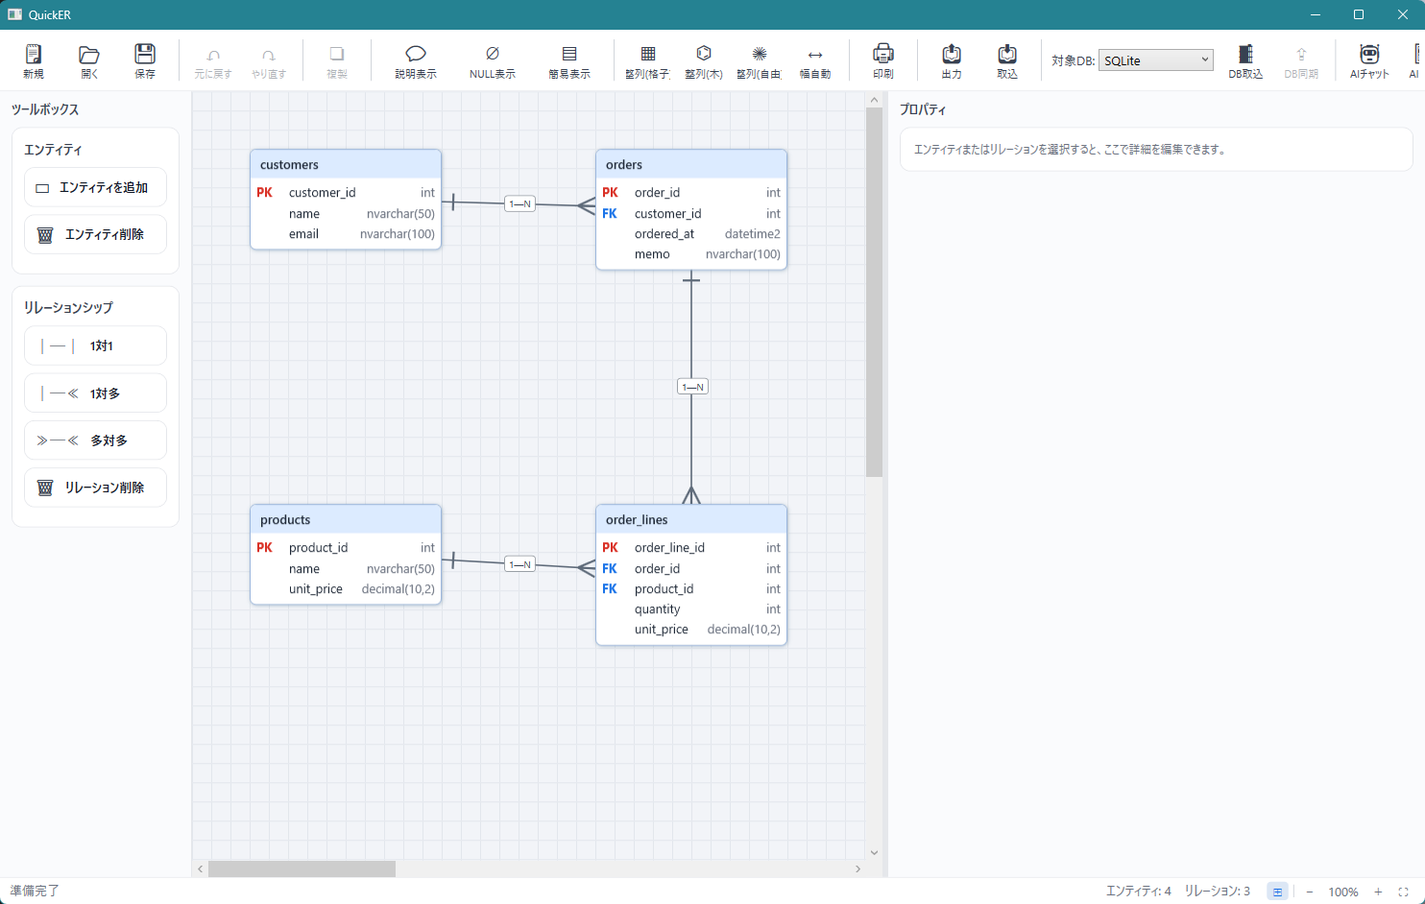
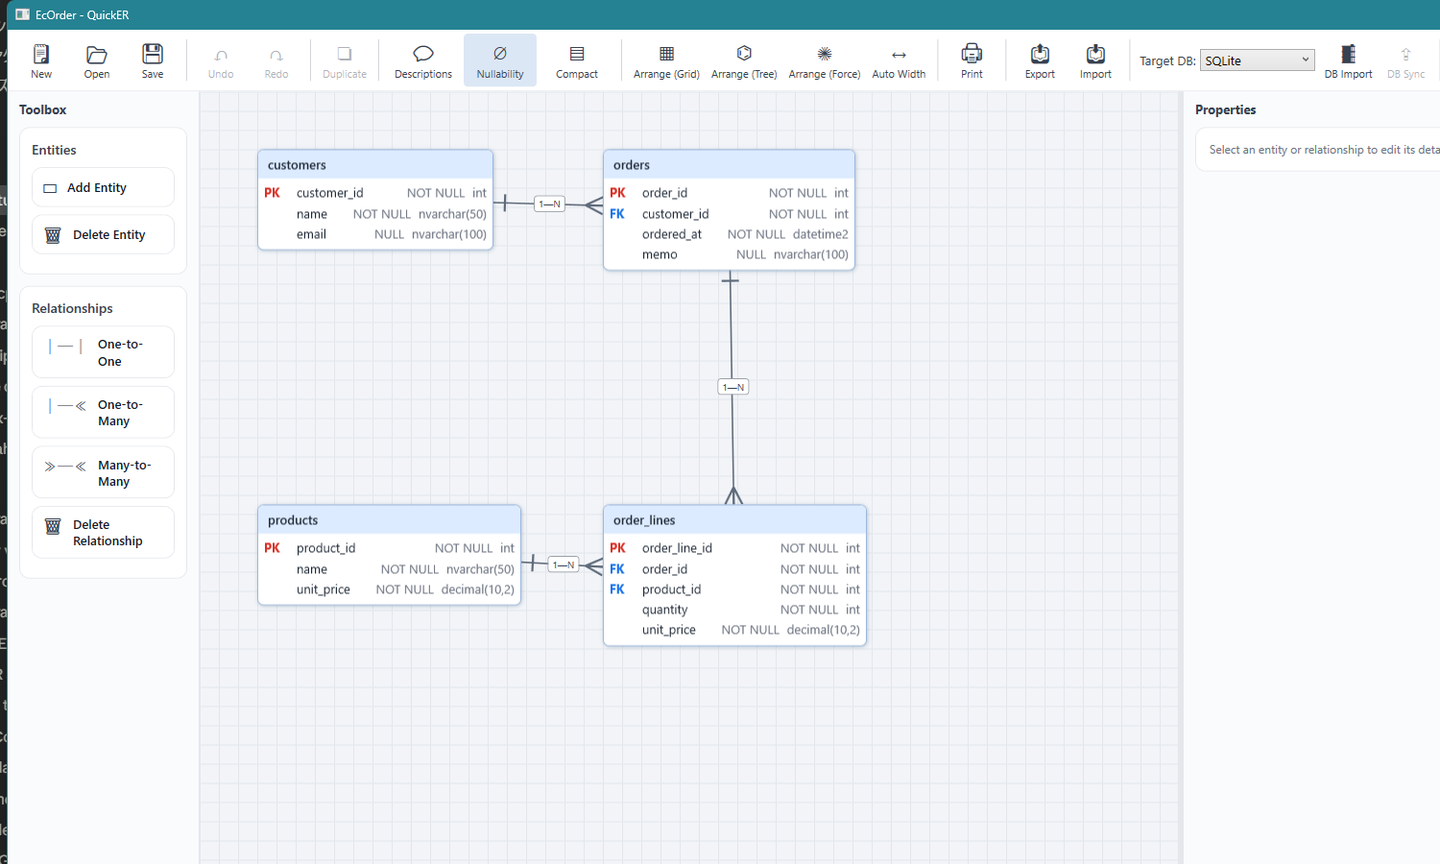
ドキュメントの日英体系を統一（CHANGELOG/CONTRIBUTING/SECURITY の英語化とスクリーンショットの命名整理）
- CHANGELOG / CONTRIBUTING / SECURITY を README と同じ規則へ分割:
  基底名 .md＝英語（GitHub 自動認識側）・.ja.md＝日本語（git mv で履歴保持）。冒頭に相互リンク
- 「CHANGELOG は日英両方更新」ルールを CONTRIBUTING（開発規約・リリース手順）と
  PR テンプレートのチェックリストに明文化（乖離防止）
- CONTRIBUTING のリリース手順の陳腐化を是正（GUI zip → Velopack 配布物・日英とも）
- スクリーンショットも同じ命名規則へ: sample-ec-order.png＝英語 UI・sample-ec-order.ja.png＝日本語 UI
  （実画像の取り違えなしを目視検証済み）。README×2・slnx の参照を更新
- 相互リンク 6 種の解決・slnx パースを検証済み

diff --git a/CONTRIBUTING.md b/CONTRIBUTING.md
@@ -1,61 +1,63 @@
-# QuickER への貢献ガイド
+# Contributing to QuickER
 
-QuickER は個人開発の OSS です。Issue・Pull Request を歓迎しますが、対応は**ベストエフォート**（対応期限の約束なし）で、**サポート対象は最新版のみ**です。
+*[日本語](CONTRIBUTING.ja.md) | English*
 
-## Issue（バグ報告・機能要望）
+QuickER is a solo-developed OSS project. Issues and pull requests are welcome, but support is **best-effort** (no promised response times) and covers **the latest version only**.
 
-- テンプレート（バグ報告・機能要望）を使ってください。テンプレートに合わない相談・質問は空 Issue で構いません
-- 日本語・英語どちらでも歓迎します（Issues in English are welcome）
-- バグ報告では環境情報（バージョン・入手方法・OS・.NET Runtime）と再現手順が調査の前提になります
-- **脆弱性の報告は公開 Issue に書かないでください**。[SECURITY.md](SECURITY.md) の手順で非公開に報告してください
+## Issues (bug reports / feature requests)
 
-## Pull Request
+- Please use the issue templates (bug report / feature request). For questions or discussions that don't fit the templates, a blank issue is fine
+- Japanese and English are both welcome
+- For bug reports, environment information (version, how you installed it, OS, .NET runtime) and reproduction steps are prerequisites for investigation
+- **Do not report vulnerabilities in public Issues.** Follow the private reporting procedure in [SECURITY.md](SECURITY.md)
 
-- **PR を作る前に、まず Issue で方針を相談してください**（事前相談制）。typo 修正などの小さな修正は相談不要です
-- 事前相談のない大きな PR は、方針に合わない場合クローズすることがあります
+## Pull requests
 
-### 開発規約の要点
+- **Before opening a PR, please discuss your plan in an Issue first** (discussion-first policy). Small fixes such as typo corrections don't need prior discussion
+- Large PRs without prior discussion may be closed if they don't fit the project direction
 
-- 開発環境は Windows ＋ .NET 10 SDK（テストが WPF 依存のため）。Docker があれば実 DB 統合テストも実行されます（無ければ自動スキップ）
-- コメント・コミットメッセージは日本語で書きます
-- コード修正後は `csharpier format .` を実行してください（グローバルツール）
-- `dotnet test QuickER.slnx` が緑であることを確認してください
-- 生成テンプレート（`Templates/CSharpRuntime.scriban`）を変更した場合は、固定フィクスチャ等の再生成が必要です。再生成 → 検証 → 差分表示までを次のスクリプトが行います:
+### Development conventions
+
+- Development environment: Windows + .NET 10 SDK (the tests depend on WPF). With Docker running, the real-DB integration tests also run (they are skipped automatically otherwise)
+- Comments and commit messages are written in Japanese
+- Run `csharpier format .` after code changes (global tool)
+- Make sure `dotnet test QuickER.slnx` is green
+- If you change the generation templates (`Templates/CSharpRuntime.scriban`), the checked-in fixtures etc. must be regenerated. The following script performs regenerate → verify → show diff:
 
   ```powershell
   ./scripts/regen-fixtures.ps1
   ```
 
-  スクリプトを使わない場合は、次の 1 コマンドで再生成し、そのあと環境変数なしで同じテストを流して緑を確認してください:
+  Without the script, regenerate with the following one-liner, then run the same tests again without the environment variable and confirm they are green:
 
   ```powershell
   $env:QUICKER_REGEN_FIXTURES=1; dotnet test tests/QuickER.Tests/QuickER.Tests.csproj --filter "FullyQualifiedName~Drift"; $env:QUICKER_REGEN_FIXTURES=$null
   ```
 
-- 利用者に影響する変更は [CHANGELOG.md](CHANGELOG.md) の Unreleased 欄へ 1 行追記してください（内部リファクタリング・テストのみの変更は不要）
+- For changes that affect users, add a one-line entry to the Unreleased section of the changelog — **both** [CHANGELOG.md](CHANGELOG.md) (English) and [CHANGELOG.ja.md](CHANGELOG.ja.md) (Japanese). Not needed for internal refactoring or test-only changes
 
-アーキテクチャと「壊すと静かに回帰する不変条件」は [CLAUDE.md](CLAUDE.md) にまとまっています。
+The architecture and the invariants that break silently (not caught by the build or the type checker) are documented in [CLAUDE.md](CLAUDE.md).
 
-## ライセンスと貢献時の権利処理
+## License and rights handling for contributions
 
-- 本リポジトリはプロジェクトごとに **MIT** と **PolyForm Noncommercial 1.0.0** を使い分けています（対象一覧は [LICENSE-NC.md](LICENSE-NC.md)、提供方針は README の「ライセンス」節を参照）
-- 提出されたコードは、**取り込み先プロジェクトの現行ライセンスで公開されること**に同意したものとみなします
-- PolyForm NC 対象プロジェクトへの貢献では、あわせて**作者（リポジトリオーナー）が当該コードを含むソフトウェアに商用ライセンスを提供し、または将来ライセンスを変更（無料開放を含む）する権利**を許諾したものとみなします（将来の提供方針の変更を外部貢献が阻害しないための取り決めです）
+- This repository uses **MIT** and **PolyForm Noncommercial 1.0.0** on a per-project basis (see [LICENSE-NC.md](LICENSE-NC.md) for the covered projects, and the "License" section of the README for the provisioning policy)
+- By submitting code, you agree that it will be published under the current license of the project it is merged into
+- For contributions to the PolyForm NC projects, you additionally grant the author (the repository owner) the right to offer commercial licenses for software containing your code, and to change its license in the future (including making it free of charge) — this arrangement keeps external contributions from blocking future changes to the provisioning policy
 
-## バージョニング
+## Versioning
 
-- [Semantic Versioning](https://semver.org/lang/ja/) に従います。全配布物（GUI・CLI・ランタイムパッケージ 4 種）はロックステップ＝`Directory.Build.props` の `VersionPrefix` で共通管理です
-- 0.x の間の版上げルール:
-  - **minor**（0.2.0 → 0.3.0）: 新機能、非互換変更（Repository API や生成コードのシグネチャ・構造の変化、パッケージの依存変更）
-  - **patch**（0.2.0 → 0.2.1）: バグ修正のみ。利用側の呼び出しコードが壊れない修正は、生成コードの内部実装が変わっても patch とします
-- 1.0.0 は「生成コードと Repository API の互換性を約束できる」と判断した時点で宣言します
+- We follow [Semantic Versioning](https://semver.org/). All distributables (the GUI, the CLI, and the 4 runtime packages) are versioned in lockstep, managed via `VersionPrefix` in `Directory.Build.props`
+- Version bump rules during 0.x:
+  - **minor** (0.2.0 → 0.3.0): new features and breaking changes (changes to the Repository API or to the signatures/structure of the generated code, package dependency changes)
+  - **patch** (0.2.0 → 0.2.1): bug fixes only. A fix that doesn't break calling code counts as a patch, even if the internals of the generated code change
+- 1.0.0 will be declared when we judge that compatibility of the generated code and the Repository API can be promised
 
-## リリース手順（メンテナ向け）
+## Release procedure (for maintainers)
 
-リリースは**常に全配布物同時**（NuGet 5 パッケージ＋GUI zip＋git タグ `v{版}`）。時期は任意で、頻度は約束しません。
+Releases always ship **all distributables together** (the 5 NuGet packages, the GUI distributables (Velopack: full / lite × Setup.exe / Portable zip), and the git tag `v{version}`). Timing is discretionary; no cadence is promised.
 
-1. [CHANGELOG.md](CHANGELOG.md) の Unreleased 欄を確認し、版番号（上記ルールで minor / patch を判断）と日付を付けて確定する
-2. `Directory.Build.props` の `VersionPrefix` を更新し、CHANGELOG の確定と合わせて 1 コミットにする
-3. publish.yml（NuGet 5 パッケージ）を workflow_dispatch で実行する（まず dry_run で確認してから本番実行）
-4. release.yml（GUI zip の発行と git タグ作成）を workflow_dispatch で実行する
-5. GitHub Release のノートへ CHANGELOG の該当版の内容を転記する
+1. Review the Unreleased section of the changelog, decide the version number (minor / patch per the rules above), and finalize the entry with a date — in **both [CHANGELOG.md](CHANGELOG.md) and [CHANGELOG.ja.md](CHANGELOG.ja.md)**
+2. Update `VersionPrefix` in `Directory.Build.props` and commit it together with the changelog finalization as a single commit
+3. Run publish.yml (the 5 NuGet packages) via workflow_dispatch (confirm with dry_run first, then run for real)
+4. Run release.yml (publishes the GUI distributables and creates the git tag) via workflow_dispatch
+5. Copy the changelog content for the version into the GitHub Release notes

diff --git a/CONTRIBUTING.ja.md b/CONTRIBUTING.ja.md
@@ -1,0 +1,63 @@
+# QuickER への貢献ガイド
+
+*日本語 | [English](CONTRIBUTING.md)*
+
+QuickER は個人開発の OSS です。Issue・Pull Request を歓迎しますが、対応は**ベストエフォート**（対応期限の約束なし）で、**サポート対象は最新版のみ**です。
+
+## Issue（バグ報告・機能要望）
+
+- テンプレート（バグ報告・機能要望）を使ってください。テンプレートに合わない相談・質問は空 Issue で構いません
+- 日本語・英語どちらでも歓迎します（Issues in English are welcome）
+- バグ報告では環境情報（バージョン・入手方法・OS・.NET Runtime）と再現手順が調査の前提になります
+- **脆弱性の報告は公開 Issue に書かないでください**。[SECURITY.ja.md](SECURITY.ja.md) の手順で非公開に報告してください
+
+## Pull Request
+
+- **PR を作る前に、まず Issue で方針を相談してください**（事前相談制）。typo 修正などの小さな修正は相談不要です
+- 事前相談のない大きな PR は、方針に合わない場合クローズすることがあります
+
+### 開発規約の要点
+
+- 開発環境は Windows ＋ .NET 10 SDK（テストが WPF 依存のため）。Docker があれば実 DB 統合テストも実行されます（無ければ自動スキップ）
+- コメント・コミットメッセージは日本語で書きます
+- コード修正後は `csharpier format .` を実行してください（グローバルツール）
+- `dotnet test QuickER.slnx` が緑であることを確認してください
+- 生成テンプレート（`Templates/CSharpRuntime.scriban`）を変更した場合は、固定フィクスチャ等の再生成が必要です。再生成 → 検証 → 差分表示までを次のスクリプトが行います:
+
+  ```powershell
+  ./scripts/regen-fixtures.ps1
+  ```
+
+  スクリプトを使わない場合は、次の 1 コマンドで再生成し、そのあと環境変数なしで同じテストを流して緑を確認してください:
+
+  ```powershell
+  $env:QUICKER_REGEN_FIXTURES=1; dotnet test tests/QuickER.Tests/QuickER.Tests.csproj --filter "FullyQualifiedName~Drift"; $env:QUICKER_REGEN_FIXTURES=$null
+  ```
+
+- 利用者に影響する変更は CHANGELOG の Unreleased 欄へ 1 行追記してください——[CHANGELOG.md](CHANGELOG.md)（英語）と [CHANGELOG.ja.md](CHANGELOG.ja.md)（日本語）の**両方**（内部リファクタリング・テストのみの変更は不要）
+
+アーキテクチャと「壊すと静かに回帰する不変条件」は [CLAUDE.md](CLAUDE.md) にまとまっています。
+
+## ライセンスと貢献時の権利処理
+
+- 本リポジトリはプロジェクトごとに **MIT** と **PolyForm Noncommercial 1.0.0** を使い分けています（対象一覧は [LICENSE-NC.md](LICENSE-NC.md)、提供方針は README の「ライセンス」節を参照）
+- 提出されたコードは、**取り込み先プロジェクトの現行ライセンスで公開されること**に同意したものとみなします
+- PolyForm NC 対象プロジェクトへの貢献では、あわせて**作者（リポジトリオーナー）が当該コードを含むソフトウェアに商用ライセンスを提供し、または将来ライセンスを変更（無料開放を含む）する権利**を許諾したものとみなします（将来の提供方針の変更を外部貢献が阻害しないための取り決めです）
+
+## バージョニング
+
+- [Semantic Versioning](https://semver.org/lang/ja/) に従います。全配布物（GUI・CLI・ランタイムパッケージ 4 種）はロックステップ＝`Directory.Build.props` の `VersionPrefix` で共通管理です
+- 0.x の間の版上げルール:
+  - **minor**（0.2.0 → 0.3.0）: 新機能、非互換変更（Repository API や生成コードのシグネチャ・構造の変化、パッケージの依存変更）
+  - **patch**（0.2.0 → 0.2.1）: バグ修正のみ。利用側の呼び出しコードが壊れない修正は、生成コードの内部実装が変わっても patch とします
+- 1.0.0 は「生成コードと Repository API の互換性を約束できる」と判断した時点で宣言します
+
+## リリース手順（メンテナ向け）
+
+リリースは**常に全配布物同時**（NuGet 5 パッケージ＋GUI 配布物（Velopack: full / lite × Setup.exe / Portable zip）＋git タグ `v{版}`）。時期は任意で、頻度は約束しません。
+
+1. CHANGELOG の Unreleased 欄を確認し、版番号（上記ルールで minor / patch を判断）と日付を付けて確定する——**[CHANGELOG.md](CHANGELOG.md) と [CHANGELOG.ja.md](CHANGELOG.ja.md) の両方**
+2. `Directory.Build.props` の `VersionPrefix` を更新し、CHANGELOG の確定と合わせて 1 コミットにする
+3. publish.yml（NuGet 5 パッケージ）を workflow_dispatch で実行する（まず dry_run で確認してから本番実行）
+4. release.yml（GUI 配布物の発行と git タグ作成）を workflow_dispatch で実行する
+5. GitHub Release のノートへ CHANGELOG の該当版の内容を転記する

diff --git a/CHANGELOG.md b/CHANGELOG.md
@@ -1,16 +1,18 @@
-# 変更履歴（Changelog）
+# Changelog
 
-QuickER の利用者に影響する変更を記録します。形式は [Keep a Changelog](https://keepachangelog.com/ja/1.1.0/) に、バージョンは [Semantic Versioning](https://semver.org/lang/ja/) に従います（0.x の間の版上げルールとリリース手順は [CONTRIBUTING.md](CONTRIBUTING.md) を参照）。
+*[日本語](CHANGELOG.ja.md) | English*
+
+This file records changes that affect QuickER users. The format follows [Keep a Changelog](https://keepachangelog.com/en/1.1.0/), and versions follow [Semantic Versioning](https://semver.org/) (see [CONTRIBUTING.md](CONTRIBUTING.md) for the versioning rules during 0.x and the release procedure).
 
 ## [Unreleased]
 
 ### Added
 
-- 初回公開
-  - ビジュアル ER 設計（crow's foot 記法・1対1 / 1対多 / 多対多・複合主キー・FK 参照アクション・包括的 Undo/Redo・ズーム/パン/検索/ミニマップ等の大規模図向けキャンバス UX）
-  - マルチ DB 対応（SQL Server / PostgreSQL / MySQL / Oracle / SQLite の 5 方言でスキーマ取込・差分同期・DDL 生成・方言切替の型自動変換）
-  - C# コード生成（Entity / EditModel / Mapper＋DB アクセス 3 択: なし / Repository (QuickER) / EF Core。同一インターフェイスで DI 登録 1 行の差し替え・ランタイム NuGet パッケージ参照モード）
-  - AI チャットによる図の生成・編集（OpenAI / Anthropic / Ollama / Codex / Claude Code）、ER 図からのモック生成
-  - 入出力（DBML / Mermaid / Excel 定義書 / PNG / SVG / ベクタ印刷）と CLI（`quicker generate` / `quicker scaffold`）
-  - 動くサンプル `samples/ec-order`（SQLite・外部 DB 不要）
-  - ライセンス構成: コア＝MIT、AI 機能群・コード生成系（7 プロジェクト）＝PolyForm Noncommercial 1.0.0＋追加許諾（現在は商用利用を含め全員無料。基本コード生成の商用利用は恒久許諾。LICENSE-NC.md の「Additional Grants」節として条文化。提供方針と将来の有償化に関する予告は README の「ライセンス」節を参照）
+- Initial public release
+  - Visual ER design (crow's foot notation, one-to-one / one-to-many / many-to-many, composite primary keys, FK referential actions, comprehensive undo/redo, and a large-diagram canvas UX with zoom / pan / search / minimap)
+  - Multi-DB support (schema import, diff sync, DDL generation, and automatic type conversion on dialect switch across the five dialects: SQL Server / PostgreSQL / MySQL / Oracle / SQLite)
+  - C# code generation (Entity / EditModel / Mapper plus a 3-way data-access choice: none / Repository (QuickER) / EF Core — same interfaces, swappable with a single DI registration line; optional runtime NuGet package reference mode)
+  - AI chat for generating and editing diagrams (OpenAI / Anthropic / Ollama / Codex / Claude Code), and mockup generation from ER diagrams
+  - Import/export (DBML / Mermaid / Excel definition sheets / PNG / SVG / vector printing) and the CLI (`quicker generate` / `quicker scaffold`)
+  - A working sample `samples/ec-order` (SQLite, no external DB required)
+  - License structure: core = MIT; the AI features and code generation (7 projects) = PolyForm Noncommercial 1.0.0 with Additional Grants (currently free for everyone including commercial use; commercial use of the basic code generation is granted permanently; codified as the "Additional Grants" section of LICENSE-NC.md — see the "License" section of the README for the provisioning policy and the notice about possible future paid licensing)

diff --git a/CHANGELOG.ja.md b/CHANGELOG.ja.md
@@ -1,0 +1,18 @@
+# 変更履歴（Changelog）
+
+*日本語 | [English](CHANGELOG.md)*
+
+QuickER の利用者に影響する変更を記録します。形式は [Keep a Changelog](https://keepachangelog.com/ja/1.1.0/) に、バージョンは [Semantic Versioning](https://semver.org/lang/ja/) に従います（0.x の間の版上げルールとリリース手順は [CONTRIBUTING.ja.md](CONTRIBUTING.ja.md) を参照）。
+
+## [Unreleased]
+
+### Added
+
+- 初回公開
+  - ビジュアル ER 設計（crow's foot 記法・1対1 / 1対多 / 多対多・複合主キー・FK 参照アクション・包括的 Undo/Redo・ズーム/パン/検索/ミニマップ等の大規模図向けキャンバス UX）
+  - マルチ DB 対応（SQL Server / PostgreSQL / MySQL / Oracle / SQLite の 5 方言でスキーマ取込・差分同期・DDL 生成・方言切替の型自動変換）
+  - C# コード生成（Entity / EditModel / Mapper＋DB アクセス 3 択: なし / Repository (QuickER) / EF Core。同一インターフェイスで DI 登録 1 行の差し替え・ランタイム NuGet パッケージ参照モード）
+  - AI チャットによる図の生成・編集（OpenAI / Anthropic / Ollama / Codex / Claude Code）、ER 図からのモック生成
+  - 入出力（DBML / Mermaid / Excel 定義書 / PNG / SVG / ベクタ印刷）と CLI（`quicker generate` / `quicker scaffold`）
+  - 動くサンプル `samples/ec-order`（SQLite・外部 DB 不要）
+  - ライセンス構成: コア＝MIT、AI 機能群・コード生成系（7 プロジェクト）＝PolyForm Noncommercial 1.0.0＋追加許諾（現在は商用利用を含め全員無料。基本コード生成の商用利用は恒久許諾。LICENSE-NC.md の「Additional Grants」節として条文化。提供方針と将来の有償化に関する予告は README の「ライセンス」節を参照）

diff --git a/SECURITY.md b/SECURITY.md
@@ -1,13 +1,15 @@
-# セキュリティポリシー
+# Security Policy
 
-## サポート対象
+*[日本語](SECURITY.ja.md) | English*
 
-最新版のみサポートします。脆弱性の修正は最新版に対して行います。
+## Supported versions
 
-## 脆弱性の報告
+Only the latest version is supported. Vulnerability fixes are applied to the latest version.
 
-**公開 Issue には書かないでください**（修正前に攻撃者へ情報を提供してしまうため）。
+## Reporting a vulnerability
 
-本リポジトリの **Security タブ →「Report a vulnerability」**（GitHub Private Vulnerability Reporting）から非公開で報告してください。個人開発のため対応はベストエフォートですが、報告には可能な限り速やかに返信します。
+**Do not report vulnerabilities in public Issues** (doing so would hand the information to attackers before a fix is available).
 
-QuickER は DB 接続文字列や AI の API キーを扱うアプリケーションです。報告の再現情報に、実際の接続文字列・API キー等の秘密情報を含めないでください。
+Please report privately via this repository's **Security tab → "Report a vulnerability"** (GitHub Private Vulnerability Reporting). As a solo project, responses are best-effort, but reports will be answered as quickly as possible.
+
+QuickER is an application that handles DB connection strings and AI API keys. Please do not include real connection strings, API keys, or other secrets in the reproduction details of your report.

diff --git a/SECURITY.ja.md b/SECURITY.ja.md
@@ -1,0 +1,15 @@
+# セキュリティポリシー
+
+*日本語 | [English](SECURITY.md)*
+
+## サポート対象
+
+最新版のみサポートします。脆弱性の修正は最新版に対して行います。
+
+## 脆弱性の報告
+
+**公開 Issue には書かないでください**（修正前に攻撃者へ情報を提供してしまうため）。
+
+本リポジトリの **Security タブ →「Report a vulnerability」**（GitHub Private Vulnerability Reporting）から非公開で報告してください。個人開発のため対応はベストエフォートですが、報告には可能な限り速やかに返信します。
+
+QuickER は DB 接続文字列や AI の API キーを扱うアプリケーションです。報告の再現情報に、実際の接続文字列・API キー等の秘密情報を含めないでください。

diff --git a/.github/PULL_REQUEST_TEMPLATE.md b/.github/PULL_REQUEST_TEMPLATE.md
@@ -13,4 +13,4 @@
 - [ ] `csharpier format .` を実行した
 - [ ] コメント・コミットメッセージは日本語（既存の規約に合わせた）
 - [ ] （該当時）生成テンプレート変更に伴う固定フィクスチャの再生成を実行した（CONTRIBUTING.md 参照）
-- [ ] （該当時）利用者に影響する変更を CHANGELOG.md の Unreleased 欄へ追記した
+- [ ] （該当時）利用者に影響する変更を CHANGELOG.md と CHANGELOG.ja.md **両方**の Unreleased 欄へ追記した

diff --git a/README.md b/README.md
@@ -8,7 +8,7 @@
 
 Draw an ER diagram → create a database → generate C# data-access code and run it — all in a single tool, round-tripping between each step. It also imports from and diff-syncs with existing databases, and you can generate and edit diagrams through AI chat.
 
-![QuickER main screen (the EC order sample ER diagram)](docs/images/sample-ec-order-en.png)
+![QuickER main screen (the EC order sample ER diagram)](docs/images/sample-ec-order.png)
 
 ## Features
 
